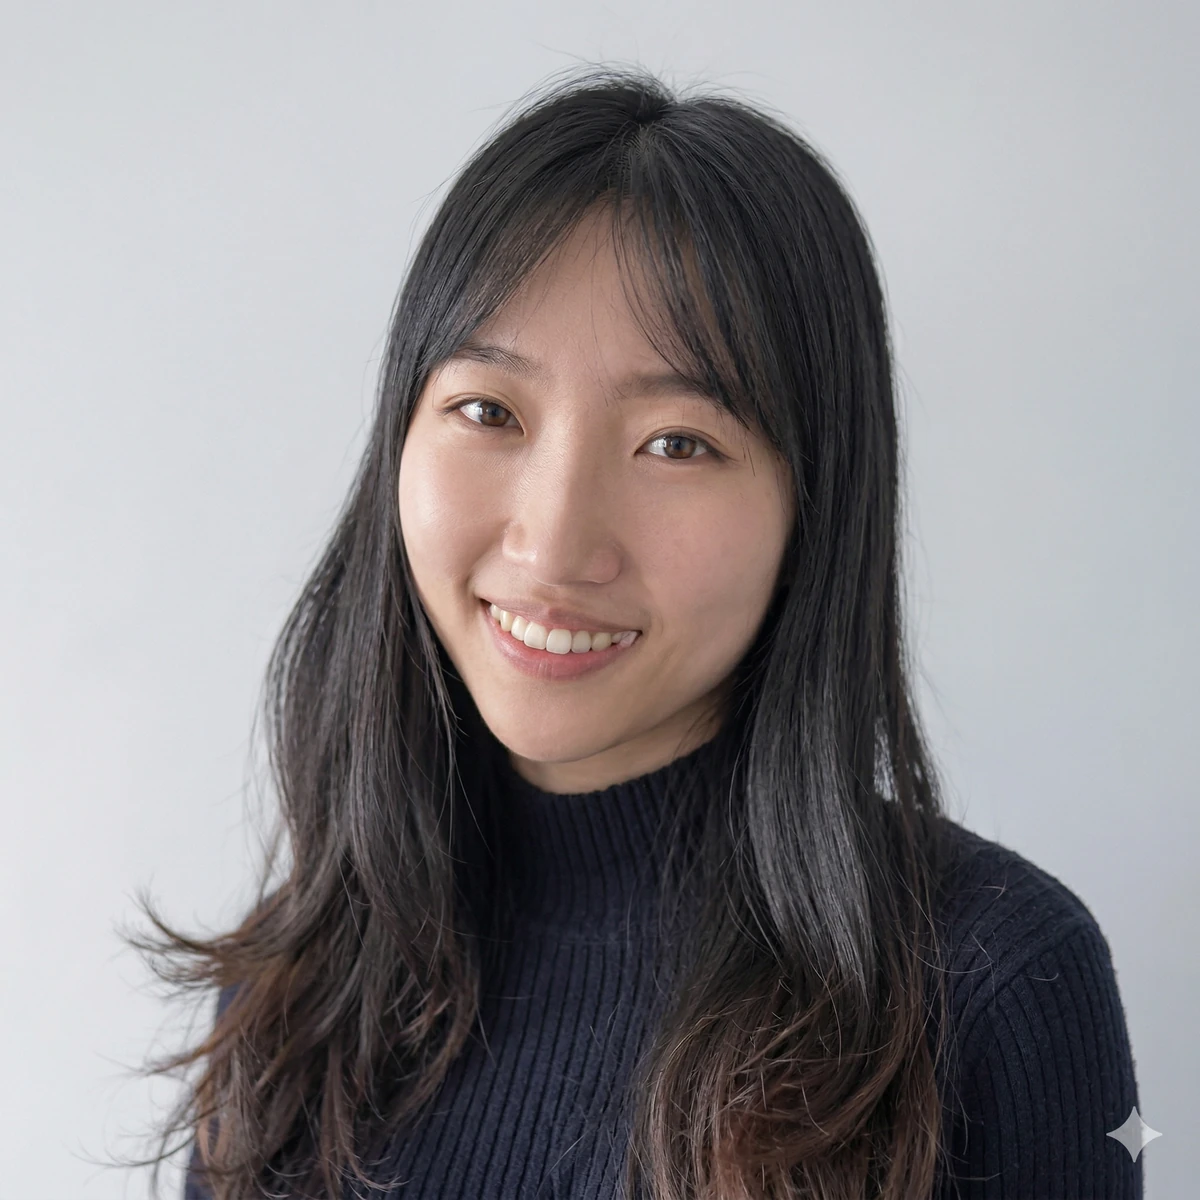
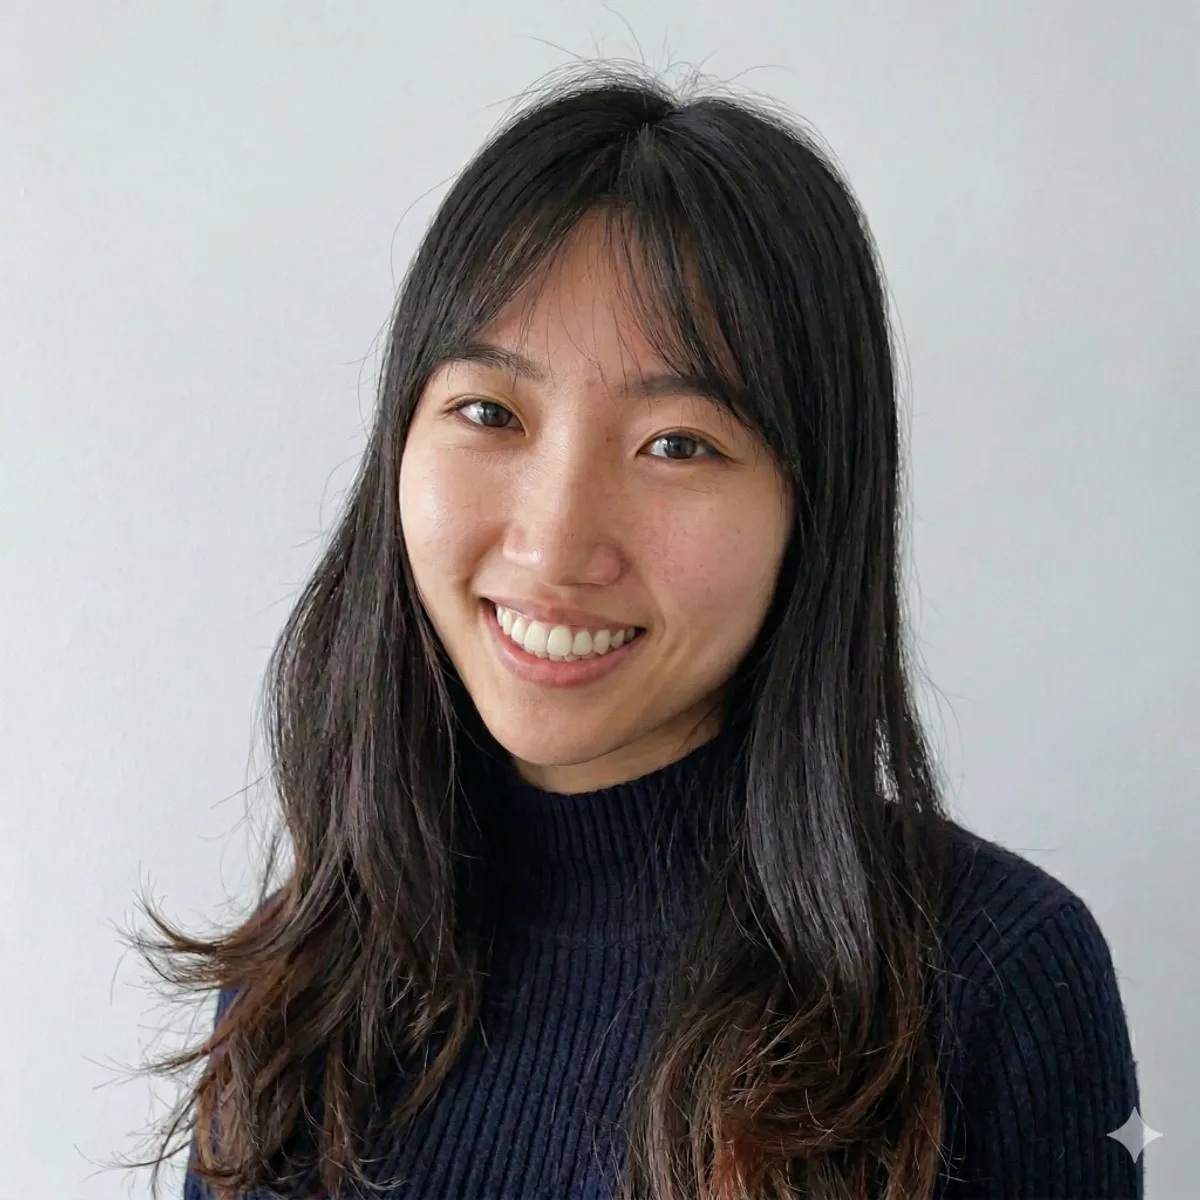
update: replace headshot with real photo, optimise to 83KB WebP
Converted from PNG source, resized to 1200x1200, compressed to
WebP quality 80 (205KB → 83KB). Updated alt text.

Made-with: Cursor

diff --git a/src/app/(english)/page.tsx b/src/app/(english)/page.tsx
@@ -470,10 +470,9 @@ export default function Home() {
           <div className="order-1 lg:order-2">
             <div className="relative aspect-[4/5] rounded-[2rem] overflow-hidden premium-shadow group">
               <div className="absolute inset-0 bg-navy-blue/5 group-hover:bg-transparent transition-colors duration-500 z-10"></div>
-              {/* REPLACE: Professional headshot of Shine Teoh, warm and approachable */}
               <Image
                 src="/shine-headshot-1200x1200.webp"
-                alt="Professional headshot of Shine Teoh"
+                alt="Shine Yin Teoh, Certified Practising Speech Pathologist"
                 fill
                 className="object-cover transition-transform duration-700 group-hover:scale-105"
               />
